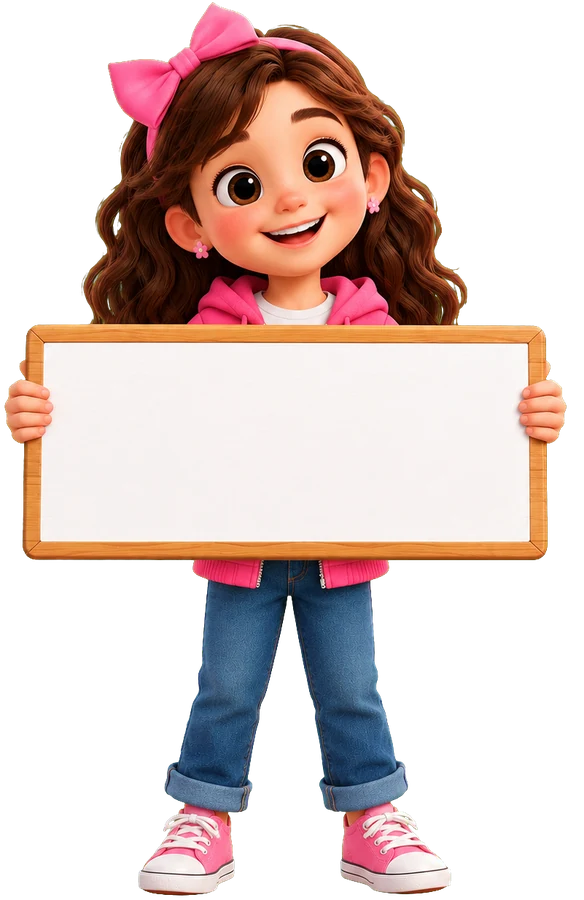
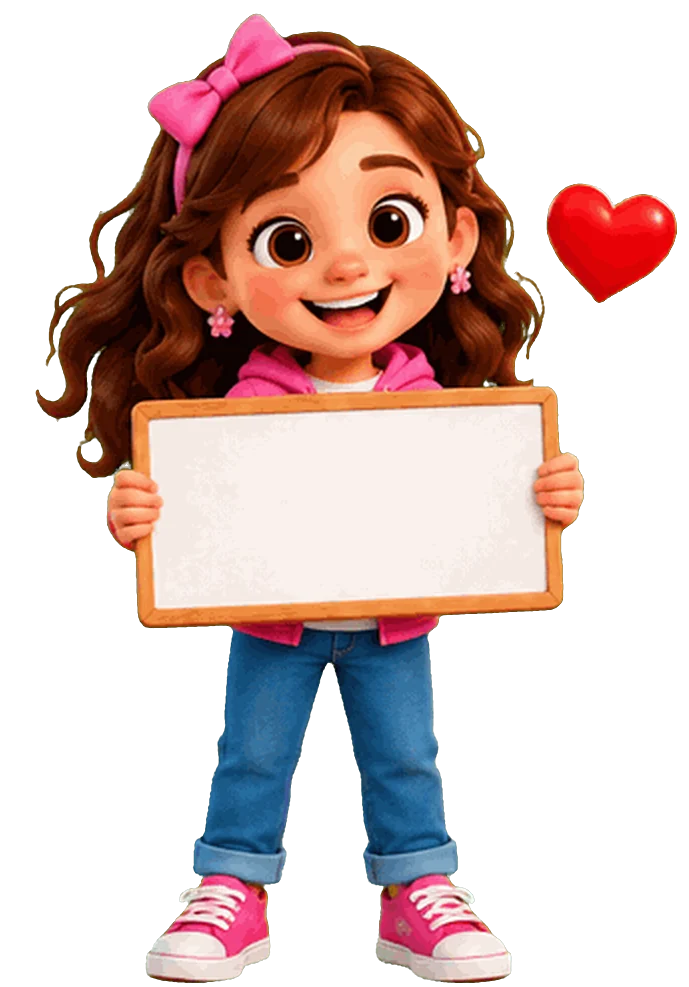
1.5.2: escena de la chica animada cuadro por cuadro

diff --git a/src/ectok_server.py b/src/ectok_server.py
@@ -28,7 +28,7 @@ from http.server import BaseHTTPRequestHandler, ThreadingHTTPServer
 from pathlib import Path
 from urllib.parse import parse_qs, unquote, urlsplit
 
-APP_VERSION = "1.5.1"
+APP_VERSION = "1.5.2"
 
 try:  # lo genera windows/build.ps1
     from ectok_build import BUILD_DATE  # type: ignore[import-not-found]

diff --git a/CHANGELOG.md b/CHANGELOG.md
@@ -1,5 +1,8 @@
 # Cambios de EC-Tok
 
+## 1.5.2 — La chica también se anima
+- La escena de la chica ahora es animada (brinca, levanta el puño, se ríe), con el letrero siguiéndola cuadro por cuadro.
+
 ## 1.5.1 — El chico ahora sí se anima
 - La escena del chico es animación de verdad (brinca, levanta el puño, se ríe) y **el texto del letrero lo sigue cuadro por cuadro**, aunque el letrero se mueva o se incline.
 - Las escenas aceptan tiras de cuadros con el letrero ubicado en cada cuadro (para los personajes animados que vengan).
